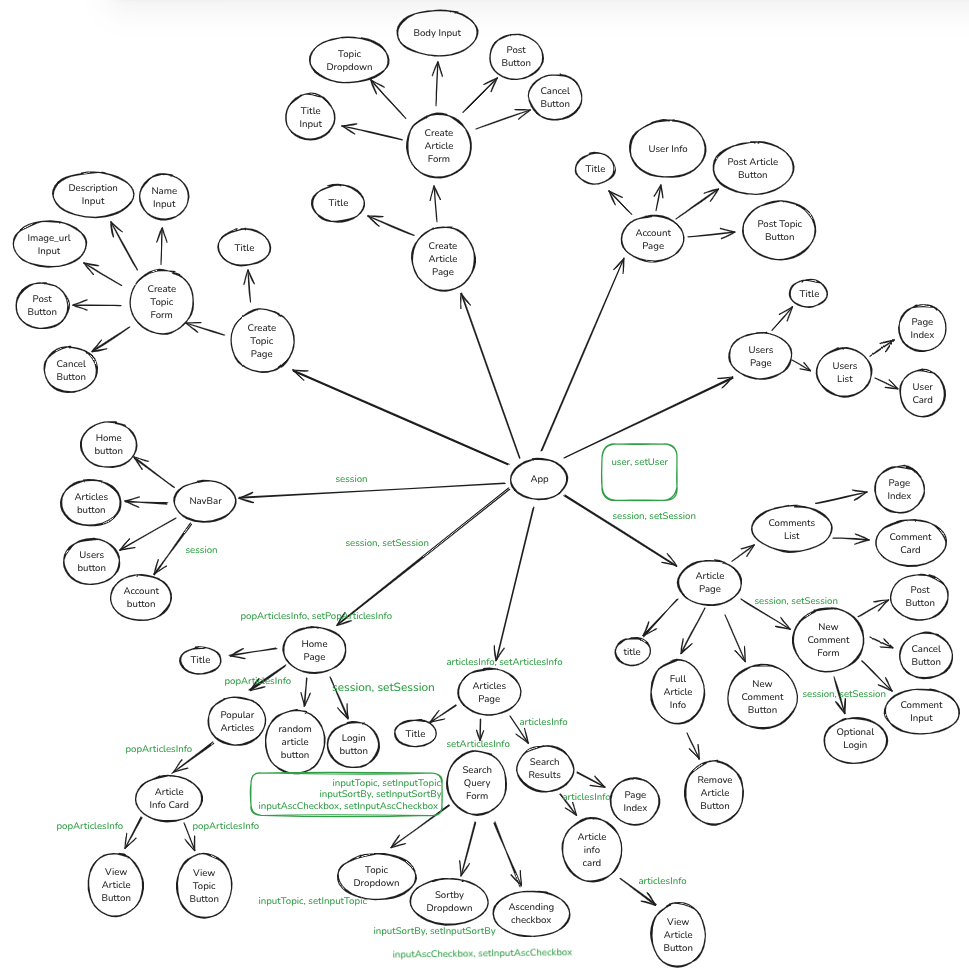
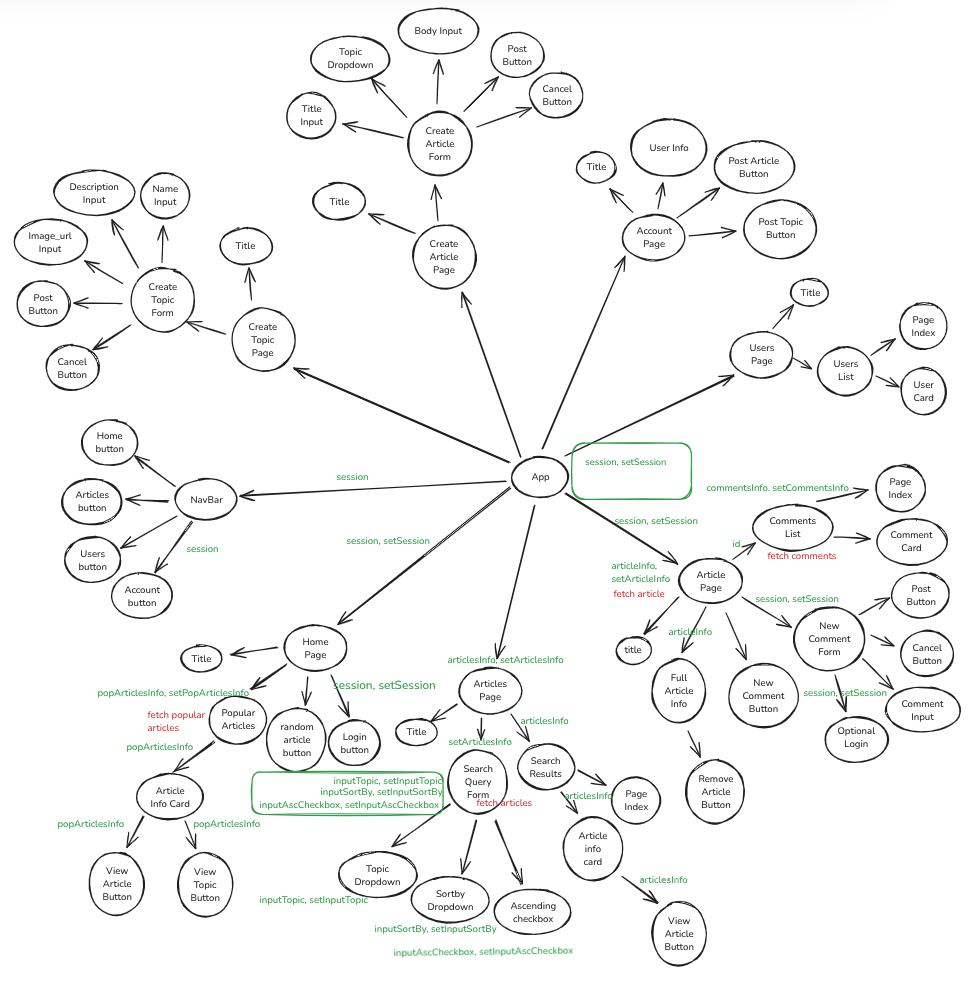
implement individual article pages

diff --git a/src/pages/ArticlePage.jsx b/src/pages/ArticlePage.jsx
@@ -1,0 +1,26 @@
+import { useEffect, useState } from "react"
+import { useParams } from "react-router"
+import { fetchArticleById } from "../utils/api"
+import PageTitle from "../components/PageTitle"
+import FullArticleInfo from "../components/FullArticleInfo"
+
+const ArticlePage = ()=>{
+    const [articleInfo, setArticleInfo] = useState({})
+    const [isLoading, setIsLoading] = useState(true)
+    const {articleId} = useParams()
+    useEffect(()=>{
+        fetchArticleById(articleId)
+        .then(article=>{
+            setArticleInfo(article)
+            setIsLoading(false)
+        })
+    },[])
+    return <>{isLoading?<h2>Loading...</h2>:
+    <>
+    <PageTitle title={articleInfo.title} />
+    <FullArticleInfo articleInfo={articleInfo} />
+    </>}
+    </>
+}
+
+export default ArticlePage

diff --git a/src/components/SearchQueryForm.jsx b/src/components/SearchQueryForm.jsx
@@ -1,18 +1,20 @@
 import { useEffect, useState } from "react"
 import CustomDropdown from "../components/CustomDropdown"
 import AscendingCheckbox from "./AscendingCheckbox"
-import { getArticles } from "../utils/api"
+import { fetchArticles } from "../utils/api"
 
-const SearchQueryFrom = ({setArticlesInfo})=>{
+const SearchQueryFrom = ({setArticlesInfo, setIsLoading})=>{
     const [inputTopic, setInputTopic] = useState(null)
     const [inputSortBy, setInputSortBy] = useState(null)
+
     const topics = ["temp","stuff","placeholder"]
     const sortOptions = ["temp","stuff","placeholder"]
 
     useEffect(()=>{
-        getArticles()
+        fetchArticles()
         .then(articles=>{
             setArticlesInfo(articles)
+            setIsLoading(false)
         })
     },[])
 

diff --git a/src/pages/ArticlesPage.jsx b/src/pages/ArticlesPage.jsx
@@ -5,10 +5,11 @@ import SearchResults from "../components/SearchResults"
 
 const ArticlesPage = ()=>{
     const [articlesInfo, setArticlesInfo] = useState([])
+    const [isLoading, setIsLoading] = useState(true)
     return <>
     <PageTitle title={ "Articles" } />
-    <SearchQueryFrom setArticlesInfo={setArticlesInfo} />
-    <SearchResults articlesInfo={articlesInfo} />
+    <SearchQueryFrom setArticlesInfo={setArticlesInfo} setIsLoading={setIsLoading} />
+    <SearchResults articlesInfo={articlesInfo} isLoading={isLoading} />
     </>
 }
 

diff --git a/src/utils/api.js b/src/utils/api.js
@@ -4,9 +4,16 @@ const ncNewsApi = axios.create({
     baseURL: "https://isaacalbiston-northcoders-news-be.onrender.com/api",
   });
 
-export const getArticles = ()=>{
+export const fetchArticles = ()=>{
     return ncNewsApi.get("/articles", {params:{limit:1000}})
     .then(res=>{
         return res.data.articles
+    })
+}
+
+export const fetchArticleById = (articleId)=>{
+    return ncNewsApi.get(`/articles/${articleId}`)
+    .then(res=>{
+        return res.data.article
     })
 }

diff --git a/src/App.jsx b/src/App.jsx
@@ -3,6 +3,7 @@ import './App.css'
 import { Route, Routes } from 'react-router'
 import ArticlesPage from './pages/ArticlesPage'
 import NavBar from './components/NavBar'
+import ArticlePage from './pages/ArticlePage'
 
 function App() {
 
@@ -11,6 +12,7 @@ function App() {
     <NavBar/>
     <Routes>
       <Route path='/articles' element= {<ArticlesPage/>} />
+      <Route path='/articles/:articleId' element= {<ArticlePage/>} />
     </Routes>
     </>
   )

diff --git a/src/components/SearchResults.jsx b/src/components/SearchResults.jsx
@@ -1,8 +1,10 @@
 import ArticleInfoCard from "./ArticleInfoCard"
 import PageIndex from "./PageIndex"
 
-const SearchResults = ({articlesInfo})=>{
+const SearchResults = ({articlesInfo, isLoading})=>{
     return <>
+    {isLoading? <h1>Loading...</h1>:
+    <>
     <PageIndex/>
     <ol>
         {articlesInfo.map(article=>{
@@ -11,6 +13,7 @@ const SearchResults = ({articlesInfo})=>{
             </li>
         })}
     </ol>
+    </>}
     </>
 }
 

diff --git a/src/components/ArticleInfoCard.jsx b/src/components/ArticleInfoCard.jsx
@@ -1,9 +1,16 @@
+import { Link } from "react-router"
+
 const ArticleInfoCard = ({article})=>{
     return <>
     <h2>{article.title}</h2>
     <p>By {article.author}</p>
     <p>{article.votes} Votes</p>
     <img src={article.article_img_url} alt={`Image about ${article.topic}`} />
+    <Link to={`/articles/${article.article_id}`} >
+        <button>
+            View Article
+        </button>
+    </Link>
     </>
 }
 

diff --git a/src/components/FullArticleInfo.jsx b/src/components/FullArticleInfo.jsx
@@ -1,0 +1,11 @@
+const FullArticleInfo = ({articleInfo})=>{
+    return <>
+    <p>About {articleInfo.topic}</p>
+    <p>By {articleInfo.author}</p>
+    <p>{articleInfo.body}</p>
+    <img src={articleInfo.article_img_url} alt={`Image about ${articleInfo.topic}`} />
+    <p>{articleInfo.votes} Votes</p>
+    </>
+}
+
+export default FullArticleInfo
